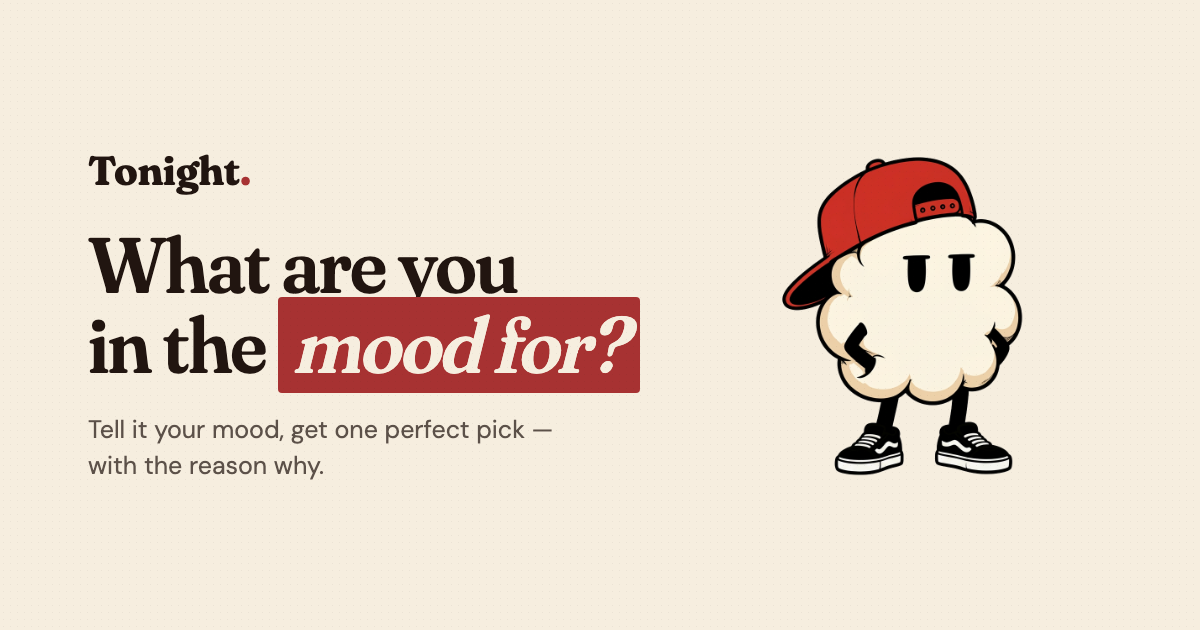
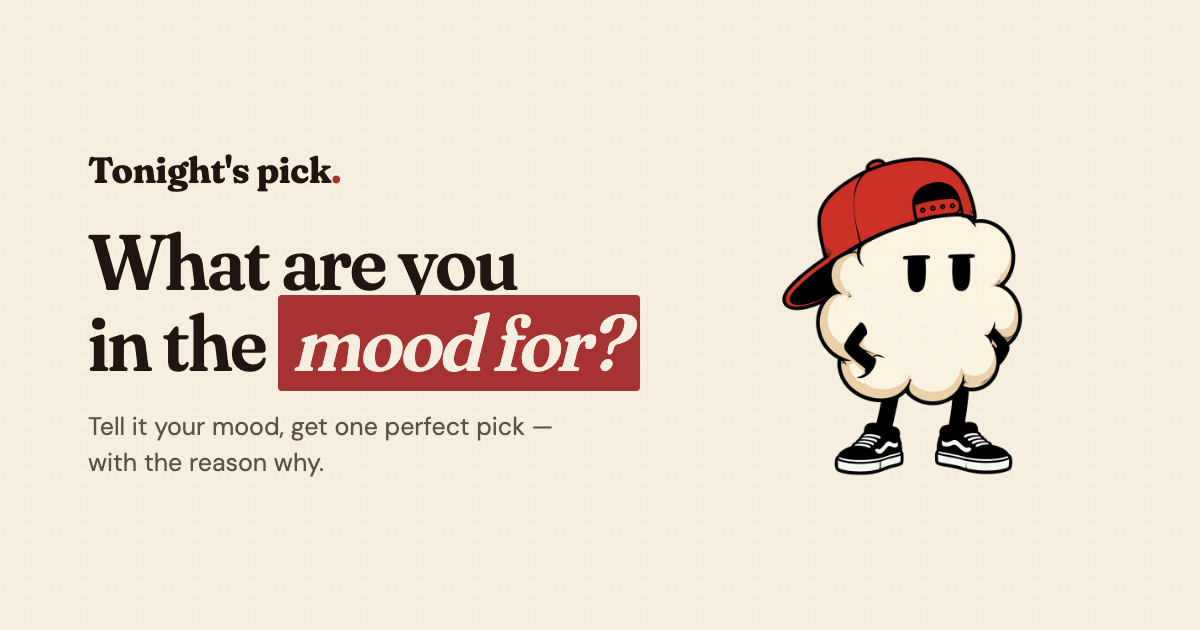
Arregla la previsualización al compartir el enlace
Los meta og:/twitter: de la raíz se habían quedado con el nombre viejo, así que
al pegar el enlace en cualquier sitio salía "Tonight" en vez de "Tonight's
pick". Actualizados título, descripción y autoría, y añadido og:site_name, que
es lo que algunas redes muestran encima del título.

La imagen de previsualización también decía "Tonight." Regenerada con el nombre
correcto, y la URL pasa a llevar ?v=2: las redes cachean por URL, así que sin
versionarla habrían seguido sirviendo la vieja indefinidamente.

diff --git a/src/routes/__root.tsx b/src/routes/__root.tsx
@@ -81,20 +81,21 @@ export const Route = createRootRouteWithContext<{ queryClient: QueryClient }>()(
     meta: [
       { charSet: "utf-8" },
       { name: "viewport", content: "width=device-width, initial-scale=1" },
-      { title: "Tonight — what should I watch?" },
-      { name: "description", content: "Tell Tonight your mood and get one perfect movie or show pick: with the platform, rating, and reason why." },
-      { name: "author", content: "Tonight" },
-      { property: "og:title", content: "Tonight — what should I watch?" },
-      { property: "og:description", content: "Tell Tonight your mood and get one perfect movie or show pick: with the platform, rating, and reason why." },
+      { title: "Tonight's pick — what should I watch?" },
+      { name: "description", content: "Tell it your mood and get one perfect film or show, with where to watch it and why it fits." },
+      { name: "author", content: "Norah Martín" },
+      { property: "og:title", content: "Tonight's pick — what should I watch?" },
+      { property: "og:description", content: "Tell it your mood and get one perfect film or show, with where to watch it and why it fits." },
       { property: "og:type", content: "website" },
+      { property: "og:site_name", content: "Tonight's pick" },
       { property: "og:url", content: SITE_URL },
       { name: "twitter:card", content: "summary_large_image" },
-      { name: "twitter:title", content: "Tonight — what should I watch?" },
-      { name: "twitter:description", content: "Tell Tonight your mood and get one perfect movie or show pick: with the platform, rating, and reason why." },
-      { property: "og:image", content: `${SITE_URL}/og-image.png` },
+      { name: "twitter:title", content: "Tonight's pick — what should I watch?" },
+      { name: "twitter:description", content: "Tell it your mood and get one perfect film or show, with where to watch it and why it fits." },
+      { property: "og:image", content: `${SITE_URL}/og-image.png?v=2` },
       { property: "og:image:width", content: "1200" },
       { property: "og:image:height", content: "630" },
-      { name: "twitter:image", content: `${SITE_URL}/og-image.png` },
+      { name: "twitter:image", content: `${SITE_URL}/og-image.png?v=2` },
     ],
     links: [
       {
